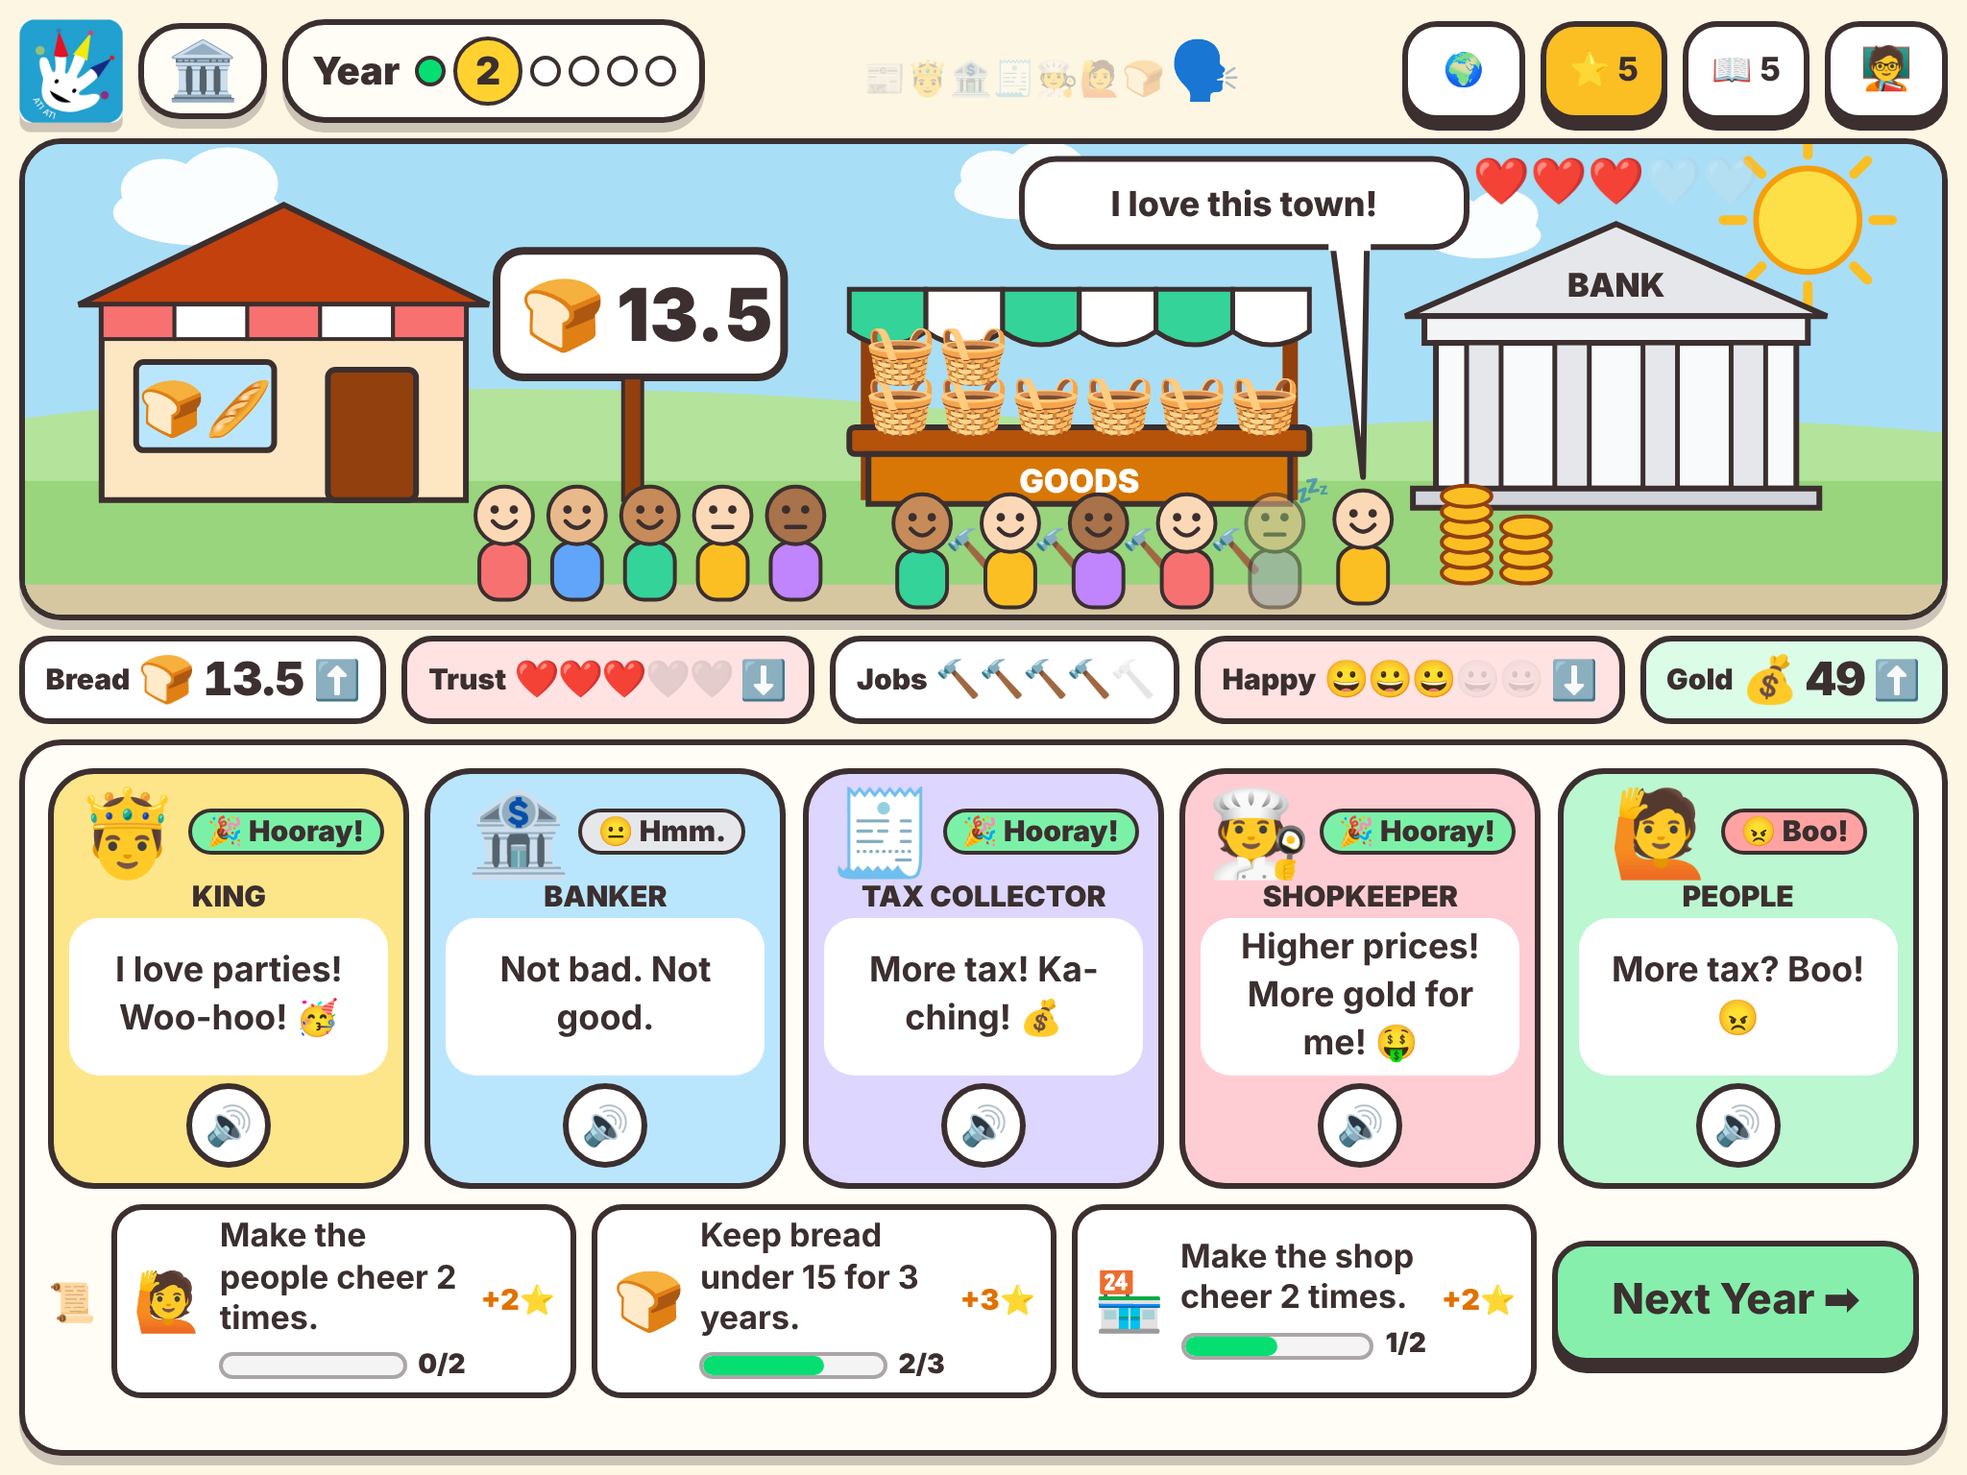
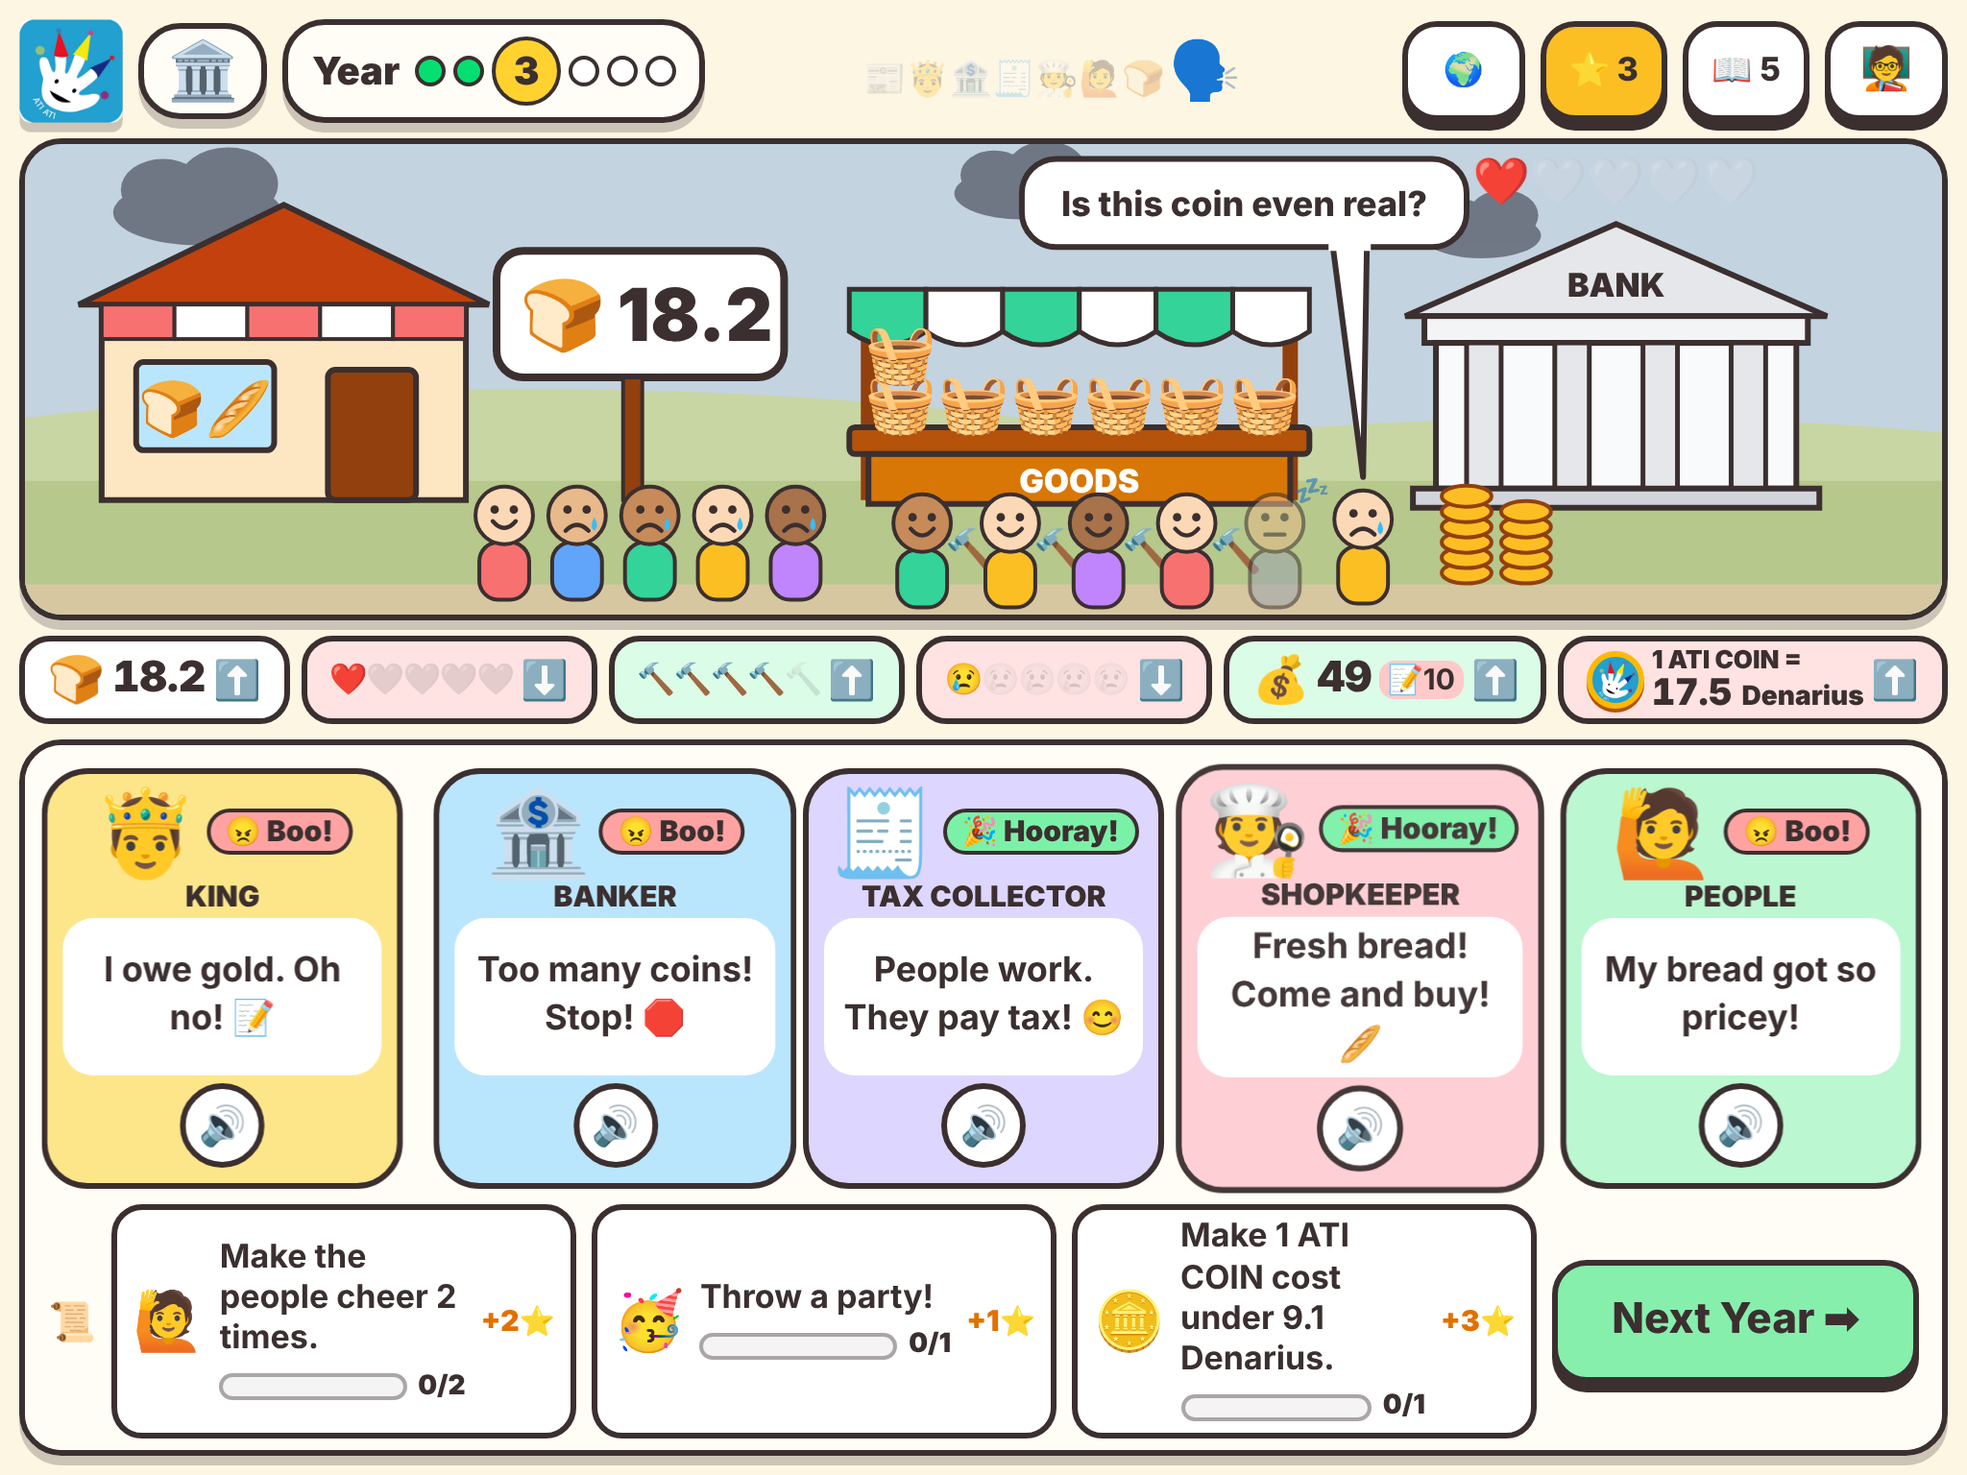
Show what 1 ATI COIN costs and add ATI COIN quests
- Drop the Reserve Currency word card (too hard to explain).
- The stats bar shows "1 ATI COIN = N <your money>". When the land is
  strong and calm, ATI COIN costs fewer coins (green down arrow).
- New quests: make 1 ATI COIN cost under a target in your own money
  (+3 stars), keep your money strong for 2 years (+3), and be the
  strongest money in the world (+5).

Claude-Session: https://claude.ai/code/session_017KT7covacMar6xfUcdP8S5

diff --git a/src/components/StatStrip.tsx b/src/components/StatStrip.tsx
@@ -1,4 +1,6 @@
+import { atiRate, fmtRate, nationDef } from '../data';
 import type { NationState } from '../engine/types';
+import { AtiCoin } from './Ati';
 
 const arrow = (now: number, before: number | undefined, eps = 0.5) =>
   before === undefined || Math.abs(now - before) < eps ? '' : now > before ? '⬆' : '⬇';
@@ -6,7 +8,7 @@ const arrow = (now: number, before: number | undefined, eps = 0.5) =>
 function Gauge({ icon, value }: { icon: string; value: number }) {
   const full = Math.round(value / 20);
   return (
-    <span className="whitespace-nowrap text-[19px] tracking-tighter" aria-label={`${full} of 5`}>
+    <span className="whitespace-nowrap text-[16px] tracking-tighter" aria-label={`${full} of 5`}>
       {Array.from({ length: 5 }, (_, i) => (
         <span key={i} style={{ opacity: i < full ? 1 : 0.18, filter: i < full ? 'none' : 'grayscale(1)' }}>{icon}</span>
       ))}
@@ -18,7 +20,7 @@ function Tile({ label, trend, good, children }: { label: string; trend: string; 
   const bg = !trend || good === undefined ? 'bg-white' : good ? 'bg-green-100' : 'bg-red-100';
   return (
     <div className={`flex min-w-0 flex-auto items-center justify-center gap-1 whitespace-nowrap rounded-2xl border-[3px] border-ink px-1.5 py-1 ${bg}`}>
-      <span className="text-[15px] font-black">{label}</span>
+      {label && <span className="hidden text-[14px] font-black xl:inline">{label}</span>}
       {children}
       {trend && <span className="pop text-xl">{trend}</span>}
     </div>
@@ -34,11 +36,14 @@ export function StatStrip({ s, prev }: { s: NationState; prev?: NationState }) {
     happy: arrow(s.happiness, prev?.happiness),
     gold: arrow(s.treasury, prev?.treasury),
   };
+  const rate = atiRate(s.id, s.acValue);
+  const before = prev && atiRate(prev.id, prev.acValue);
+  const atiTrend = !prev || Math.abs(rate - before!) < 0.005 ? '' : rate < before! ? '⬇' : '⬆';
   return (
-    <div className="flex gap-2">
+    <div className="flex gap-1.5">
       <Tile label="Bread" trend={t.bread}>
         <span className="text-2xl">🍞</span>
-        <span className="text-2xl font-black tabular-nums">{s.breadPrice >= 100 ? Math.round(s.breadPrice) : s.breadPrice.toFixed(1)}</span>
+        <span className="text-[22px] font-black tabular-nums">{s.breadPrice >= 100 ? Math.round(s.breadPrice) : s.breadPrice.toFixed(1)}</span>
       </Tile>
       <Tile label="Trust" trend={t.trust} good={t.trust === '⬆'}><Gauge icon="❤" value={s.trust} /></Tile>
       <Tile label="Jobs" trend={t.jobs} good={t.jobs === '⬆'}><Gauge icon="🔨" value={s.jobs} /></Tile>
@@ -47,9 +52,17 @@ export function StatStrip({ s, prev }: { s: NationState; prev?: NationState }) {
       </Tile>
       <Tile label="Gold" trend={t.gold} good={t.gold === '⬆'}>
         <span className="text-2xl">💰</span>
-        <span className="text-2xl font-black tabular-nums">{s.treasury}</span>
+        <span className="text-[22px] font-black tabular-nums">{s.treasury}</span>
         {s.debt > 0 && <span className="rounded-lg bg-red-200 px-1 text-[15px] font-bold">📝{s.debt}</span>}
         {s.bitcoin > 0 && <span className="rounded-lg bg-amber-200 px-1 text-[15px] font-bold">₿{Math.round(s.bitcoin)}</span>}
+      </Tile>
+      {/* What 1 ATI COIN costs in your own coins. Fewer coins = your money is strong (green). */}
+      <Tile label="" trend={atiTrend} good={atiTrend === '⬇'}>
+        <AtiCoin size={30} />
+        <span className="flex flex-col leading-none">
+          <span className="text-[13px] font-black">1 ATI COIN =</span>
+          <span className="text-[19px] font-black tabular-nums">{fmtRate(rate)} <span className="text-[14px]">{nationDef(s.id).currency}</span></span>
+        </span>
       </Tile>
     </div>
   );

diff --git a/src/components/Quests.tsx b/src/components/Quests.tsx
@@ -1,5 +1,5 @@
 import { useEffect } from 'react';
-import { QUESTS, questById } from '../data';
+import { QUESTS, questById, questText } from '../data';
 import { questStats } from '../engine/quests';
 import { speak } from '../lib/speech';
 import { useGame } from '../store/game';
@@ -24,7 +24,7 @@ export function QuestBoard({ compact }: { compact?: boolean }) {
           <div key={id} className="flex flex-1 items-center gap-2 rounded-2xl border-[3px] border-ink bg-white px-2 py-1">
             <span className="text-3xl">{q.icon}</span>
             <div className="min-w-0 flex-1">
-              <div className="text-[17px] font-bold leading-tight">{q.text}</div>
+              <div className="text-[17px] font-bold leading-tight">{questText(q, game.world.playerId)}</div>
               <div className="mt-1 flex items-center gap-1.5">
                 <span className="h-3.5 flex-1 overflow-hidden rounded-full border-2 border-ink/40 bg-ink/5">
                   <span className="block h-full rounded-full bg-green-400 transition-all" style={{ width: `${(have / q.goal) * 100}%` }} />
@@ -61,7 +61,7 @@ export function QuestsOverlay() {
           return (
             <div key={q.id} className={`flex items-center gap-2 rounded-2xl border-[3px] px-3 py-1.5 text-[18px] font-bold ${done ? 'border-ink bg-green-100' : 'border-ink/25 bg-white text-ink/60'}`}>
               <span className="text-2xl">{done ? '🏅' : q.icon}</span>
-              <span className="flex-1">{q.text}</span>
+              <span className="flex-1">{questText(q, game.world.playerId)}</span>
               <span className="text-amber-600">+{q.stars}⭐</span>
             </div>
           );
@@ -77,9 +77,10 @@ export function QuestModal() {
   const dismiss = useGame((s) => s.dismissQuest);
   const id = game?.questQueue[0];
   const q = id ? questById(id) : null;
+  const text = q && game ? questText(q, game.world.playerId) : '';
   useEffect(() => {
-    if (q) speak(`Quest done! ${q.text}`);
-  }, [q]);
+    if (text) speak(`Quest done! ${text}`);
+  }, [text]);
   if (!game || !q || game.wordQueue.length) return null;
   return (
     <div className="fixed inset-0 z-40 flex items-center justify-center bg-ink/60 p-6">
@@ -87,7 +88,7 @@ export function QuestModal() {
         <div className="text-[40px] leading-none">🎉 🏅 🎉</div>
         <div className="text-4xl font-black text-green-700">QUEST DONE!</div>
         <div className="flex items-center gap-2 text-2xl font-bold">
-          <span className="text-4xl">{q.icon}</span> {q.text} <SpeakButton small text={`Quest done! ${q.text}`} />
+          <span className="text-4xl">{q.icon}</span> {text} <SpeakButton small text={`Quest done! ${text}`} />
         </div>
         <div className="text-4xl">{'⭐'.repeat(q.stars)}</div>
         <div className="text-xl font-bold">You got {q.stars} {q.stars === 1 ? 'star' : 'stars'}!</div>

diff --git a/tests/roles.test.ts b/tests/roles.test.ts
@@ -1,5 +1,5 @@
 import { describe, expect, it } from 'vitest';
-import { CARDS, EVENTS, NATIONS, nationDef } from '../src/data';
+import { CARDS, EVENTS, NATIONS, nationDef, questText } from '../src/data';
 import questsJson from '../src/data/quests.json';
 import roles from '../src/data/roles.json';
 import { autoPlay } from '../src/engine/game';
@@ -55,7 +55,7 @@ describe('helpers cheer and complain', () => {
 
 describe('quests', () => {
   const year = (over: Partial<QuestYear> = {}): QuestYear => ({
-    correct: true, breadPrice: 10, treasury: 60, phenomenon: 'stable', picks: ['party'],
+    correct: true, breadPrice: 10, treasury: 60, acValue: 100, rank: 3, phenomenon: 'stable', picks: ['party'],
     moods: { king: 'cheer', bank: 'cheer', tax: 'ok', shop: 'ok', people: 'cheer' }, ...over,
   });
 
@@ -70,6 +70,17 @@ describe('quests', () => {
     expect(state.stars).toBe(5);
     expect(state.active).toHaveLength(3);
     expect(state.active).toContain('party');
+  });
+
+  it('a calm, trusted land makes ATI COIN cheaper and wins the ATI COIN quest', () => {
+    const g = autoPlay(data, { seed: 3, turns: 6, events: 'none' }, 'rome', () => ({ bank: 'steady', tax: 'sameTax', shop: 'bakeMore' }));
+    expect(g.final.acValue).toBeGreaterThanOrEqual(110);
+    const years = g.years.map((r) => ({ ...year(), acValue: r.state.acValue }));
+    expect(questStats(years, 0).strongYears).toBeGreaterThanOrEqual(1);
+  });
+
+  it('ATI COIN quest text uses the money of the land', () => {
+    expect(questText(QUESTS.find((q) => q.id === 'atiCheap')!, 'rome')).toBe('Make 1 ATI COIN cost under 9.1 Denarius.');
   });
 
   it('a 6-year Grade 1 game can finish several quests', () => {

diff --git a/src/screens/End.tsx b/src/screens/End.tsx
@@ -1,4 +1,4 @@
-import { QUESTS, WORDS, cardById, eventById, nationDef } from '../data';
+import { QUESTS, WORDS, cardById, eventById, nationDef, questText } from '../data';
 import { CARD_ROLES } from '../engine/types';
 import { LineChart } from '../components/LineChart';
 import { score, tier } from '../engine/detect';
@@ -56,7 +56,7 @@ export function End() {
           <div className="text-3xl font-black text-amber-600">⭐ {game.quests.stars} stars</div>
           <div>🏅 Quests: {game.quests.done.length}</div>
           <div>🤔 Right guesses: {right} of {game.log.length}</div>
-          <div>📖 Words: {game.words.length} of 10</div>
+          <div>📖 Words: {game.words.length} of {WORDS.length}</div>
           <div>❤ {Math.round(me.trust)} 🔨 {Math.round(me.jobs)} 😀 {Math.round(me.happiness)}</div>
         </div>
       </div>
@@ -73,7 +73,7 @@ export function End() {
         <h3 className="mb-1 text-xl font-black">🏅 My Quest Badges</h3>
         <div className="flex flex-wrap gap-2 text-[17px] font-bold">
           {QUESTS.map((q) => (
-            <span key={q.id} className={`rounded-full border-2 px-3 py-0.5 ${game.quests.done.includes(q.id) ? 'border-ink bg-green-200' : 'border-ink/20 text-ink/30'}`}>{q.icon} {q.text}</span>
+            <span key={q.id} className={`rounded-full border-2 px-3 py-0.5 ${game.quests.done.includes(q.id) ? 'border-ink bg-green-200' : 'border-ink/20 text-ink/30'}`}>{q.icon} {questText(q, game.world.playerId)}</span>
           ))}
         </div>
       </div>

diff --git a/src/store/game.ts b/src/store/game.ts
@@ -148,6 +148,7 @@ export const useGame = create<Store>()(
           guess, correct, phenomenon: result.phenomenon, inflation: result.inflation,
           breadPrice: s.breadPrice, treasury: s.treasury, trust: s.trust, jobs: s.jobs, happiness: s.happiness, acValue: s.acValue,
           picks: Object.values(picks).filter((x): x is string => !!x),
+          rank: 1 + NATION_IDS.filter((n) => out.world.nations[n].acValue > s.acValue).length,
           moods: Object.fromEntries(HELPERS.map((h) => [h, talk[h].mood])) as QuestYear['moods'],
         };
         const usedInterest = CARDS.find((c) => c.id === picks.bank)?.tag === 'interest';
@@ -157,7 +158,7 @@ export const useGame = create<Store>()(
             PHENOMENON[result.phenomenon].word,
             usedInterest ? 'interest' : null,
             result.lostTrust ? 'trust' : null,
-            result.notes.includes('rebuild') ? 'reserve' : null,
+            result.notes.includes('rebuild') ? 'exchange' : null,
           ]),
           phase: 'result',
         });
@@ -166,7 +167,7 @@ export const useGame = create<Store>()(
       toTalk: () => {
         const g = get().game;
         if (!g?.last) return;
-        const withW = withWords(g, [g.last.year === 1 ? 'exchange' : null, g.last.year === 2 ? 'reserve' : null]);
+        const withW = withWords(g, [g.last.year === 1 ? 'exchange' : null]);
         set({ game: withQuests(withW), phase: 'talk' });
       },
 

diff --git a/src/engine/quests.ts b/src/engine/quests.ts
@@ -1,3 +1,4 @@
+import { CONFIG as C } from './config';
 import type { Helper, Phenomenon } from './types';
 import type { Mood } from './roles';
 
@@ -5,7 +6,7 @@ import type { Mood } from './roles';
 export type QuestStat =
   | 'years' | 'rightGuesses' | 'cheapYears' | 'maxGold' | 'words' | 'stableYears' | 'allCheerYears'
   | 'kingCheers' | 'bankCheers' | 'taxCheers' | 'shopCheers' | 'peopleCheers'
-  | 'party' | 'openTrade' | 'bakeMore';
+  | 'party' | 'openTrade' | 'bakeMore' | 'strongYears' | 'topYears';
 
 export interface QuestDef {
   id: string;
@@ -21,6 +22,10 @@ export interface QuestYear {
   correct: boolean;
   breadPrice: number;
   treasury: number;
+  /** money value against ATI COIN (start 100; higher = stronger) */
+  acValue: number;
+  /** 1 = strongest money of the six lands this year */
+  rank: number;
   phenomenon: Phenomenon;
   picks: string[];
   moods: Record<Helper, Mood>;
@@ -47,6 +52,8 @@ export function questStats(years: QuestYear[], words: number): Record<QuestStat,
     party: count((y) => y.picks.includes('party')),
     openTrade: count((y) => y.picks.includes('openTrade')),
     bakeMore: count((y) => y.picks.includes('bakeMore')),
+    strongYears: count((y) => y.acValue >= C.atiStrong),
+    topYears: count((y) => y.rank === 1),
   };
 }
 

diff --git a/src/data/index.ts b/src/data/index.ts
@@ -38,3 +38,17 @@ export const HELPER_LINES = rolesJson.lines as unknown as Record<Helper, Record<
 export const helperDef = (id: Helper) => HELPERS_DEF.find((h) => h.id === id)!;
 export const QUESTS = questsJson as QuestDef[];
 export const questById = (id: string) => QUESTS.find((q) => q.id === id)!;
+
+import { CONFIG } from '../engine/config';
+
+/** How many of this land's coins you need for 1 ATI COIN. Goes down when the land is strong. */
+export const atiRate = (id: NationId, acValue: number) => (nationDef(id).acRate * 100) / acValue;
+export const fmtRate = (r: number) => (r >= 100 ? Math.round(r).toString() : r >= 1 ? r.toFixed(1) : r.toFixed(2));
+
+/** Quest text with this land's money filled in. */
+export function questText(q: QuestDef, id: NationId | null | undefined): string {
+  if (!id) return q.text.replace(' {target} {currency}', ' less').replace('{currency}', 'coins');
+  return q.text
+    .replace('{target}', fmtRate(atiRate(id, CONFIG.atiStrong)))
+    .replace('{currency}', nationDef(id).currency);
+}

diff --git a/src/components/WordCard.tsx b/src/components/WordCard.tsx
@@ -1,5 +1,5 @@
 import { useEffect } from 'react';
-import { nationDef, wordById, type WordDef } from '../data';
+import { atiRate, fmtRate, nationDef, wordById, type WordDef } from '../data';
 import { speak } from '../lib/speech';
 import { useGame } from '../store/game';
 import { SpeakButton } from './SpeakButton';
@@ -36,8 +36,8 @@ export function WordCardModal() {
 
   const me = game.world.nations[game.world.playerId];
   const def = nationDef(me.id);
-  const rate = (def.acRate * 100) / me.acValue;
-  const happened = word.id === 'exchange' ? `Now 1 ATI COIN = ${rate.toFixed(1)} ${def.currency}.` : undefined;
+  const rate = atiRate(me.id, me.acValue);
+  const happened = word.id === 'exchange' ? `Now 1 ATI COIN = ${fmtRate(rate)} ${def.currency}.` : undefined;
   return (
     <div className="fixed inset-0 z-40 flex items-center justify-center bg-ink/60 p-6">
       <div className="pop w-full max-w-2xl">

diff --git a/src/engine/config.ts b/src/engine/config.ts
@@ -40,6 +40,8 @@ export const CONFIG = {
   score: { trust: 0.3, happiness: 0.25, jobs: 0.2, ac: 0.25, golden: 75, strong: 55, struggling: 35 }, // Grade 1: easier tiers
   specialMaxUses: 2,
   // Grade 1: few cards to choose from. Tax shows all three (more, same, less).
+  // ATI COIN quests: money is 'strong' when its value index (start 100) is this high.
+  atiStrong: 110,
   handSize: { king: 2, bank: 2, tax: 3, shop: 2 },
   // Who cheers and who complains (see roles.ts).
   mood: { goldMove: 5, highInflation: 0.1, tooPricey: 0.25, jobsDrop: -3, sadDrop: -8 },

diff --git a/CLAUDE.md b/CLAUDE.md
@@ -7,6 +7,7 @@ The team runs one of six lands for 6 years by default (6/8/10 in teacher mode). 
 - Five helpers: 🤴 King, 🏦 Banker, 🧾 Tax Collector, 🧑🍳 Shopkeeper pick one card each year; 🙋 People make the bread-price guess.
 - Each role sees only 2 cards (Tax sees More / Same / Less). Risky cards show a ⚠ sign (teacher can turn it off).
 - After the result, "Town Talk": every helper cheers or complains (`src/engine/roles.ts`, lines in `src/data/roles.json`).
+- The stats bar shows "1 ATI COIN = N <your money>". A strong, calm land needs fewer coins (green ⬇). ATI COIN quests reward that (`CONFIG.atiStrong`, quest text fills in each land's money). The Reserve Currency word card was dropped as too hard.
 - Roblox-style quests: 3 on the board at a time, stars as rewards, badges on the end screen (`src/engine/quests.ts`, `src/data/quests.json`).
 
 ## Rules for all player-facing English
